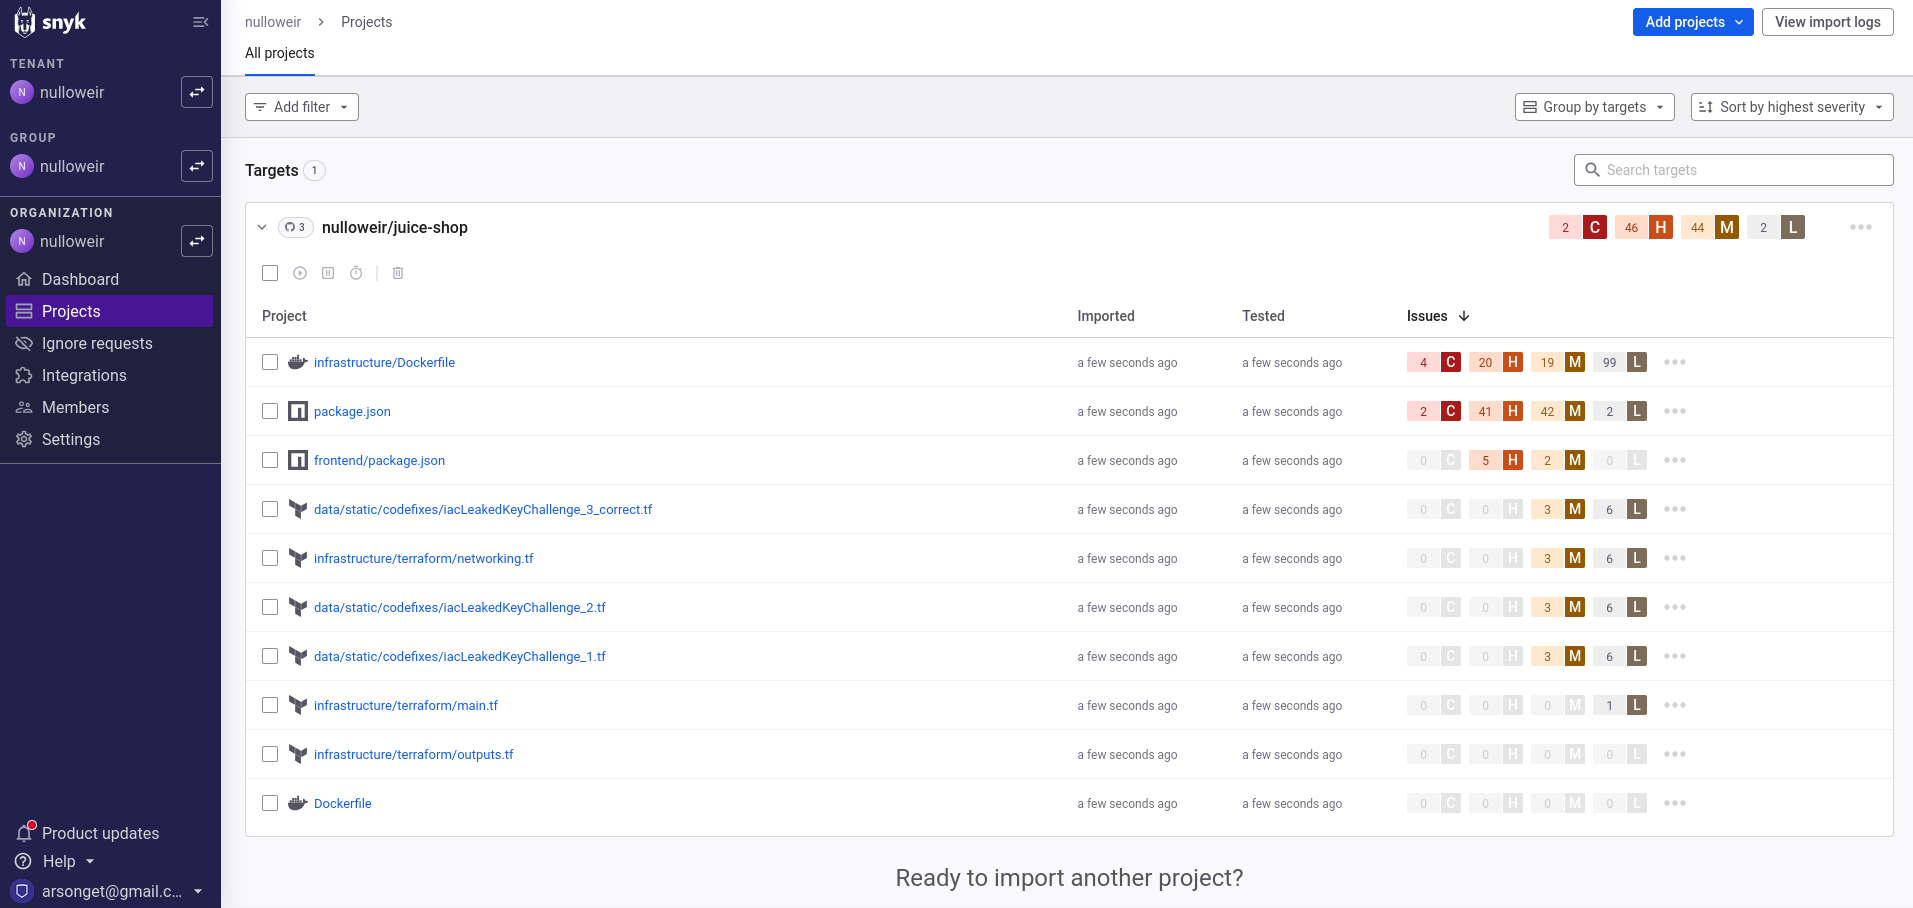
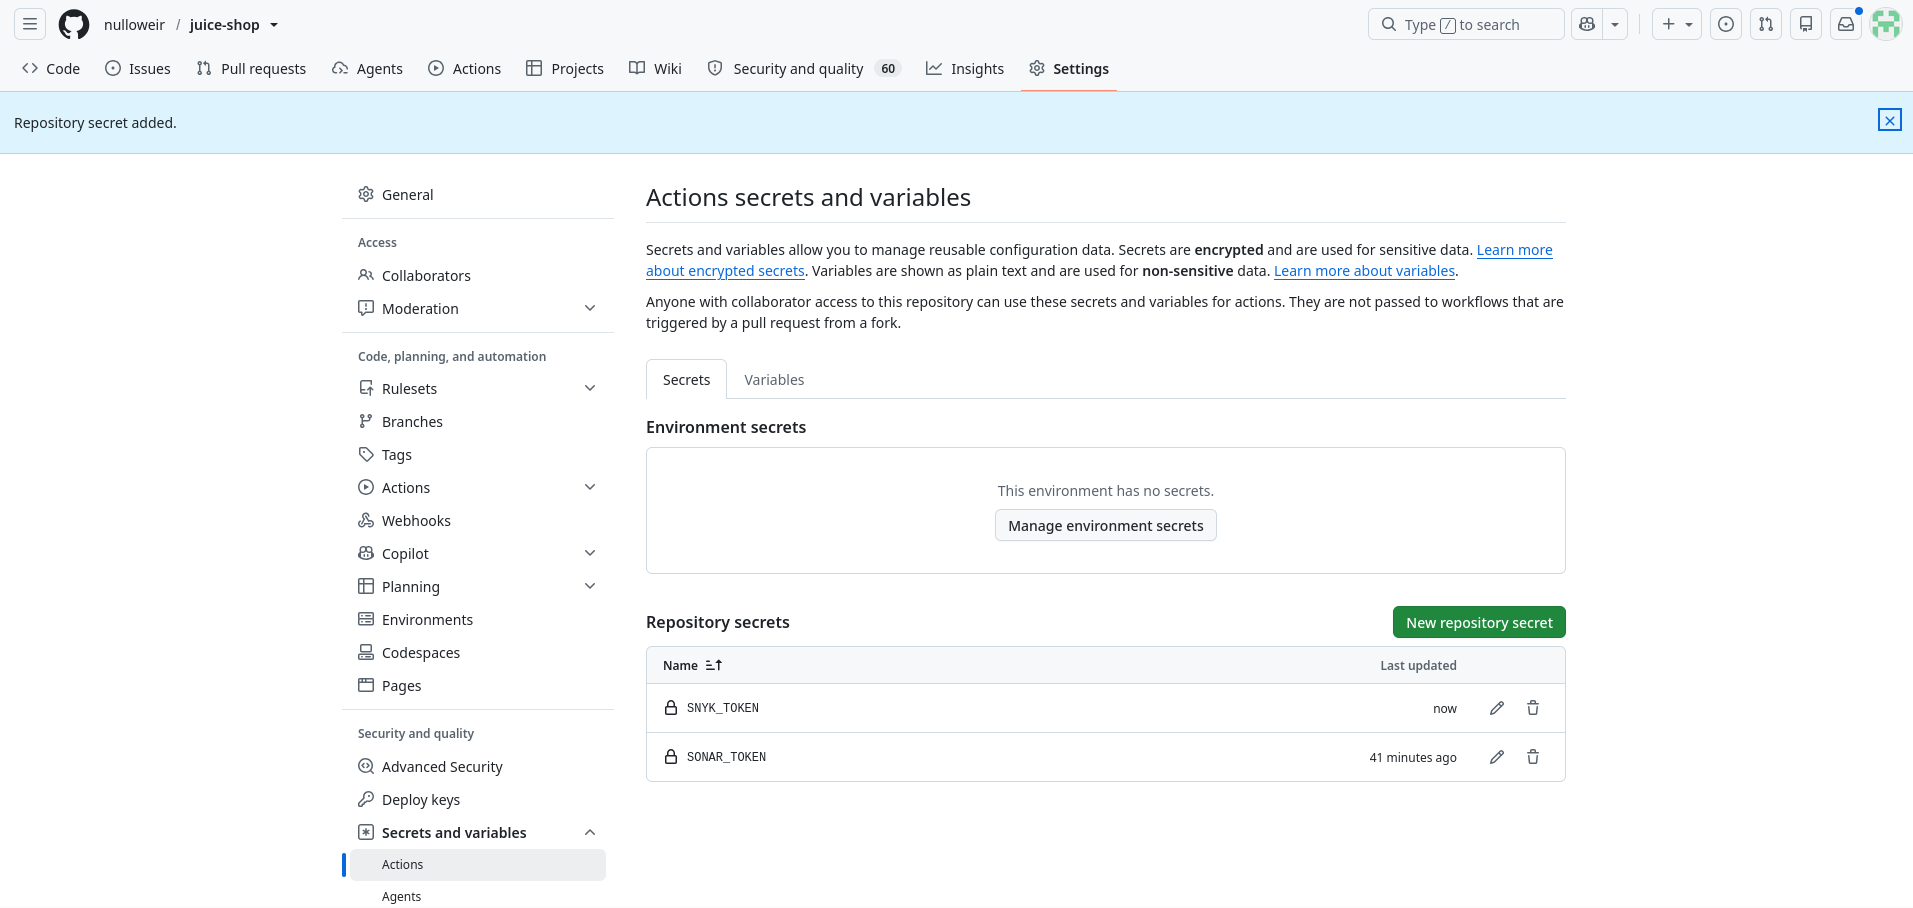
Added zap_DAST.yml

diff --git a/README.md b/README.md
@@ -41,9 +41,9 @@
 
   - Створити GitHub Actions workflow для запуску аналізу при кожному push або pull request у репозиторій.  
 
-|           ![[screen6.png]]            |
-| :---: |
-| ![Workflow 2](_Файли/Pasted%20image%2020260505153652.png) |
+|           ![[screen6.png]]           |
+| :----------------------------------: |
+| ![[screen7.png]] |
 
 ```yml
 name: SAST
@@ -85,10 +85,10 @@ jobs:
 
   - Переконатися, що результати аналізу відображаються у вкладці Security.  
 
-| ![Security 1](_Файли/Pasted%20image%2020260505152640.png) |
-| :---: |
-| ![Security 2](_Файли/Pasted%20image%2020260505152734.png) |
-| ![Security 3](_Файли/Pasted%20image%2020260505152815.png) |
+| ![[screen8.png]] |
+| :--------------: |
+| ![[screen9.png]] |
+
 
 ---
 
@@ -97,20 +97,20 @@ jobs:
 - **Дії:**  
   - Зареєструвати репозиторій у Snyk.  
 
-| ![[screen11.png]] |
+| ![[screen10.png]] |
 | :---------------: |
 
   - Додати токен доступу `SNYK_TOKEN` до секретів GitHub.  
 
-| ![[screen12.png]] |
+| ![[screen11.png]] |
 | :----------------------------------: |
 
   - Налаштувати GitHub Actions workflow для регулярної перевірки залежностей та відправлення звітів у PR.  
 
-| ![Snyk Workflow 1](_Файли/Pasted%20image%2020260505153451.png) |
-| :---: |
-| ![Snyk Workflow 2](_Файли/Pasted%20image%2020260505153900.png) |
-| ![Snyk Workflow 3](_Файли/Pasted%20image%2020260505154430.png) |
+|          ![[screen12.png]]           |
+| :----------------------------------: |
+| ![[screen13.png]] |
+|          ![[screen14.png]]           |
 
 ```yml
 name: SOFTWARE COMPOSITION ANALYSIS using Snyk
